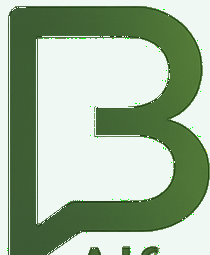
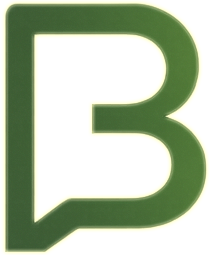
Commit

diff --git a/src/components/home/Hero.tsx b/src/components/home/Hero.tsx
@@ -9,6 +9,7 @@ import {
   Eyebrow,
 } from '@/components/ui-kit';
 import { SERVICES, TRUST_MICRO } from '@/lib/site';
+import BotifyXLogo from '@/components/BotifyXLogo';
 
 /* ─── service constellation (right side) ─────────────────── */
 
@@ -132,34 +133,23 @@ const ServiceConstellation: React.FC = () => {
               animation: 'hero-pulse 3s ease-in-out infinite 0.5s',
             }}
           />
-          {/* Inner content */}
+          {/* Inner content - BotifyX Logo */}
           <div
-            className="relative flex flex-col items-center justify-center rounded-full border border-hairline"
+            className="relative flex flex-col items-center justify-center rounded-full border border-mint-ink/20 transition-all duration-300 hover:scale-105"
             style={{
-              width: 80,
-              height: 80,
-              background: 'rgb(var(--surface) / 0.8)',
-              backdropFilter: 'blur(12px)',
-              boxShadow: '0 0 30px rgba(0,255,157,0.15), inset 0 1px 0 rgba(255,255,255,0.05)',
+              width: 84,
+              height: 84,
+              background: 'rgb(var(--surface) / 0.85)',
+              backdropFilter: 'blur(16px)',
+              boxShadow: '0 0 35px rgba(0,255,157,0.22), inset 0 1px 0 rgba(255,255,255,0.08)',
             }}
           >
-            <span className="font-mono text-[9px] font-bold uppercase tracking-[0.2em] text-ink-faint">
-              BOTIFYX
-            </span>
-            <span
-              className="mt-0.5 text-[20px] font-bold"
-              style={{
-                background: 'linear-gradient(135deg, #00ff9d, #00e5ff)',
-                WebkitBackgroundClip: 'text',
-                backgroundClip: 'text',
-                color: 'transparent',
-              }}
-            >
-              7
-            </span>
-            <span className="font-mono text-[7px] uppercase tracking-[0.2em] text-ink-faint">
-              DISCIPLINES
-            </span>
+            <BotifyXLogo
+              variant="icon"
+              height={44}
+              alt="BotifyX Logo"
+              className="drop-shadow-[0_0_14px_rgba(0,255,157,0.45)]"
+            />
           </div>
         </div>
 

diff --git a/src/components/BotifyXLogo.tsx b/src/components/BotifyXLogo.tsx
@@ -24,7 +24,7 @@ export const BotifyXLogo: React.FC<BotifyXLogoProps> = ({
   let logoSrc = '/botifyx-logo-header-dark.png';
 
   if (variant === 'icon') {
-    logoSrc = '/botifyx-icon.png';
+    logoSrc = isDark ? '/botifyx-icon-dark.png' : '/botifyx-icon.png';
   } else if (variant === 'full' || showTagline) {
     logoSrc = isDark ? '/botifyx-logo-full-dark.png' : '/botifyx-logo-full.png';
   } else {
